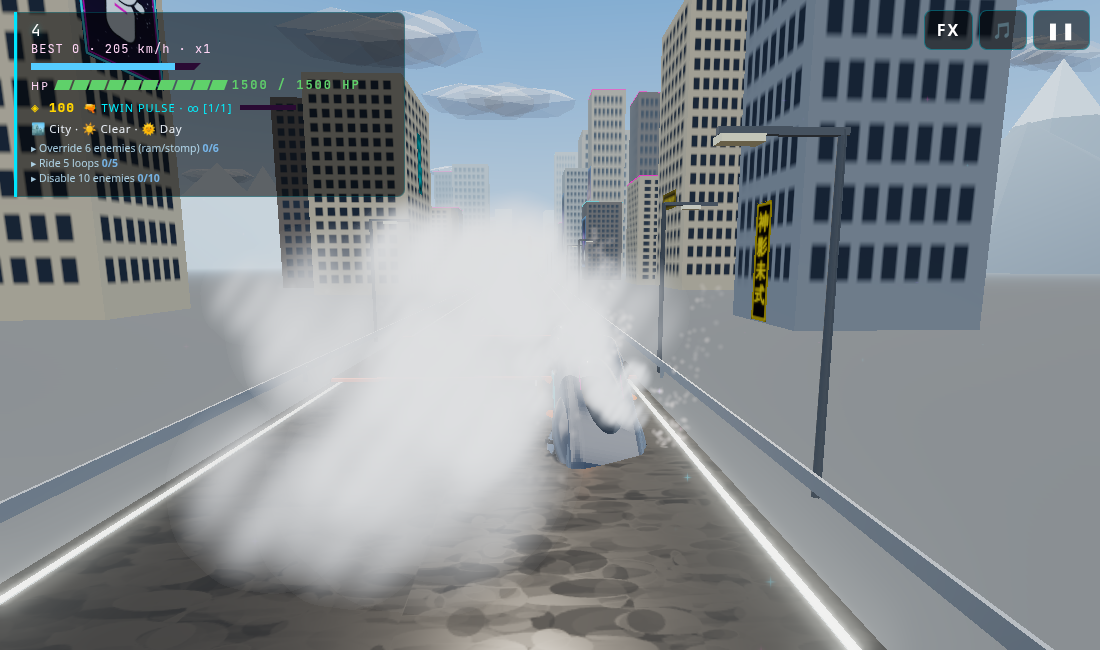
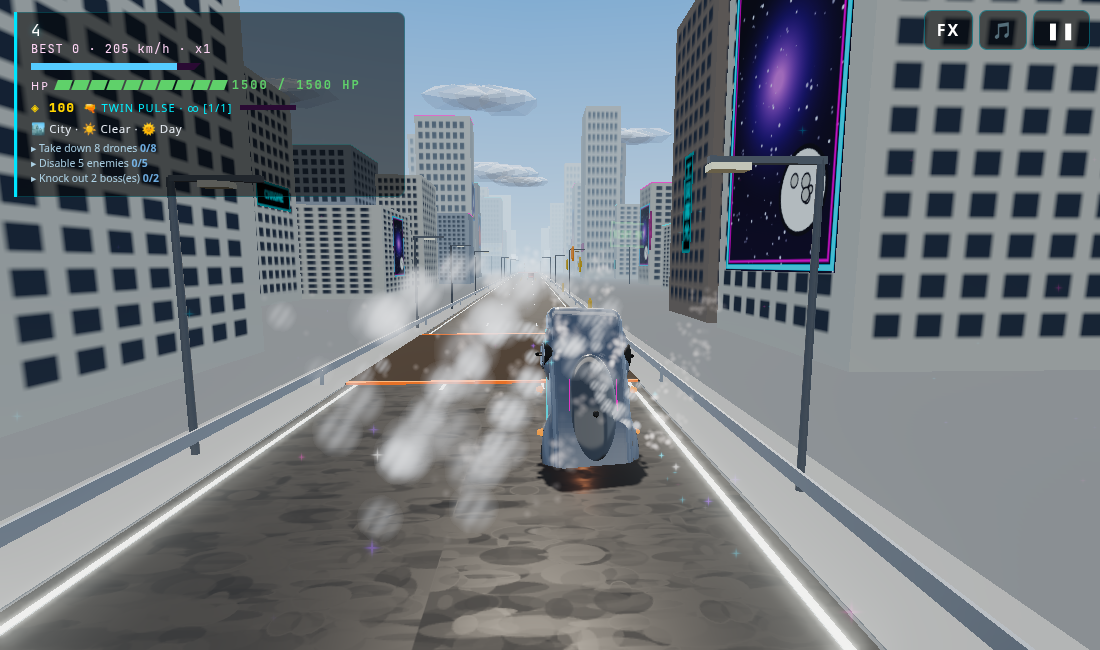
v13: tone down in-game vapour puffs (cover keeps big plumes)

diff --git a/index.html b/index.html
@@ -343,9 +343,9 @@ const PFU={lk:{value:1},px:{value:1}};const PUFF=new THREE.Points(pfg,new THREE.
  vertexShader:'attribute float sz,al;uniform float px;varying float vA;void main(){vec4 mv=modelViewMatrix*vec4(position,1.);vA=al;gl_PointSize=min(400.,sz*px*(260./max(.5,-mv.z)));gl_Position=projectionMatrix*mv;}',
  fragmentShader:'uniform float lk;varying float vA;void main(){vec2 d=gl_PointCoord-.5;float r=length(d)*2.;float a=(1.-smoothstep(.25,1.,r))*vA;a*=.8+.2*sin(d.x*19.+d.y*13.);if(a<.01)discard;gl_FragColor=vec4(vec3(.86,.9,.95)*lk,a);}'}));PUFF.frustumCulled=false;PUFF.renderOrder=2;S.add(PUFF);
 const PF=[];for(let i=0;i<PFN;i++)PF.push({x:0,y:-999,z:0,vx:0,vy:0,vz:0,l:0,L:1,s0:.2,s1:1.5});let pfi=0;
-function puff(x,y,z,dx,dy,dz,sp,big){const p=PF[pfi=(pfi+1)%PFN];const v=(big?4.5:3.5)*(.7+Math.random()*.5);p.x=x;p.y=y;p.z=z;p.vx=dx*v+(Math.random()-.5)*1.2;p.vy=dy*v+(Math.random()-.5)*1.2;p.vz=dz*v+(Math.random()-.5)*1.2-(sp||0)*.7;p.l=p.L=(big?1.1:.7)*(.7+Math.random()*.6);p.s0=.5;p.s1=(big?6.5:3.4)*(.8+Math.random()*.5)}
+function puff(x,y,z,dx,dy,dz,sp,big){const p=PF[pfi=(pfi+1)%PFN];const v=(big?4.5:3.5)*(.7+Math.random()*.5);p.x=x;p.y=y;p.z=z;p.vx=dx*v+(Math.random()-.5)*1.2;p.vy=dy*v+(Math.random()-.5)*1.2;p.vz=dz*v+(Math.random()-.5)*1.2-(sp||0)*.7;p.l=p.L=(big?1.1:.7)*(.7+Math.random()*.6);p.s0=.5;p.s1=(big?6.5:3.4)*(.8+Math.random()*.5);if(!COVER){p.s0=.25;p.s1*=.3;p.l=p.L*=.7}}
 function puffTick(dt){const e=Math.sin((TOD-.25)*Math.PI*2);PFU.lk.value=.45+.55*Math.max(0,Math.min(1,(e+.1)/.3));PFU.px.value=R.getPixelRatio();
- for(let i=0;i<PFN;i++){const p=PF[i];if(p.l<=0){PFA[i]=0;PFP[i*3+1]=-999;continue}p.l-=dt;const f=1-Math.max(0,p.l/p.L);p.x+=p.vx*dt;p.y+=p.vy*dt+dt*.4;p.z+=p.vz*dt;const k=Math.pow(.15,dt);p.vx*=k;p.vy*=k;p.vz*=k;PFP[i*3]=p.x;PFP[i*3+1]=p.y;PFP[i*3+2]=p.z;PFS[i]=(p.s0+(p.s1-p.s0)*Math.sqrt(f));PFA[i]=(1-f)*(f<.1?f*10:1)*.7}
+ for(let i=0;i<PFN;i++){const p=PF[i];if(p.l<=0){PFA[i]=0;PFP[i*3+1]=-999;continue}p.l-=dt;const f=1-Math.max(0,p.l/p.L);p.x+=p.vx*dt;p.y+=p.vy*dt+dt*.4;p.z+=p.vz*dt;const k=Math.pow(.15,dt);p.vx*=k;p.vy*=k;p.vz*=k;PFP[i*3]=p.x;PFP[i*3+1]=p.y;PFP[i*3+2]=p.z;PFS[i]=(p.s0+(p.s1-p.s0)*Math.sqrt(f));PFA[i]=(1-f)*(f<.1?f*10:1)*(COVER?.7:.4)}
  pfg.attributes.position.needsUpdate=pfg.attributes.sz.needsUpdate=pfg.attributes.al.needsUpdate=true}
 // ---- CAR (unbranded gunmetal 2-seat hypercar)
 let FLB=null,RLB=null;const CAR=new THREE.Group(),BODY=new THREE.Group();CAR.add(BODY);S.add(CAR);
